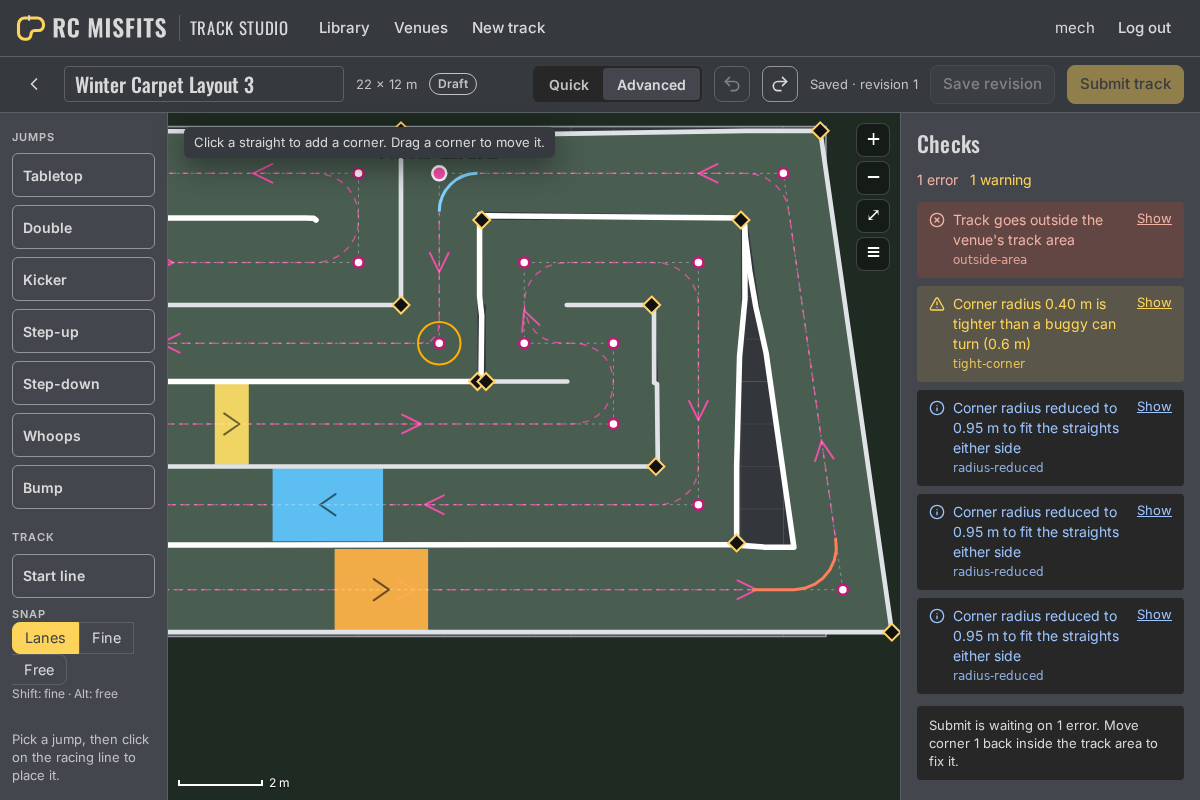
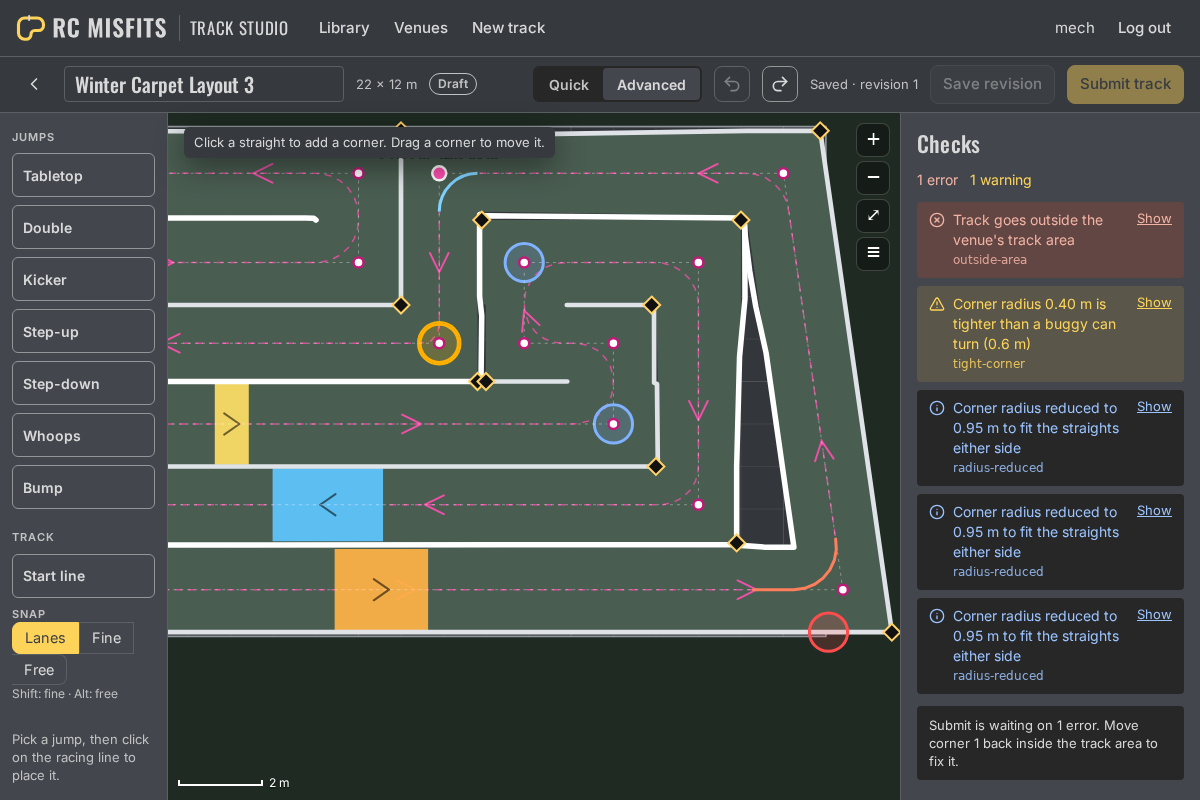
designer: review fixes: Advanced keeps PlanView check dots and tips, no nested main, copy link only for saved work, Submit hidden until first save, keys off on phones; stronger mode tests (#11)

diff --git a/apps/web/src/designer/Designer.tsx b/apps/web/src/designer/Designer.tsx
@@ -29,7 +29,7 @@ import { featureCorners, laneRuns, pts } from "../lib/plan.js";
 import { useSession } from "../lib/session.js";
 import { insertionFor, liveGeometry, nearestOnLine, placeFeature, roundTo, tooClose, wheelRadius, wrapDistance, type Guide, type Live } from "./geometry.js";
 import { useHistory } from "./history.js";
-import { allows, checkCounts, deletePoint, insertPoint, MODE_KEY, movePoint, problemMarks, readMode, snapModeFor, submitBlock, visibleChecks, type DesignerMode } from "./mode.js";
+import { allows, checkCounts, wheelEdit, deletePoint, insertPoint, MODE_KEY, movePoint, problemMarks, readMode, snapModeFor, submitBlock, visibleChecks, type DesignerMode } from "./mode.js";
 import { hasMitre, keepPinned, tidy, makeHairpin, mitrePoint, pinnedCorners, placeByMitre, SHARP_TURN, snapCentre, snapInsertion, snapMitre, turnDegrees, type SnapMode, type SnapResult, type SnapTag } from "./snap.js";
 import { useBake } from "./useBake.js";
 
@@ -156,6 +156,8 @@ export function Designer({ mode, initial, base: initialBase, fromVenue, storageK
   const viewRef = useRef(view);
   viewRef.current = view;
   const phone = useMediaQuery(PHONE_QUERY);
+  const phoneRef = useRef(phone);
+  phoneRef.current = phone;
   const [shared, setShared] = useState<Guide | null>(null);
   const [dragging, setDragging] = useState<number | null>(null);
   const [hoverPt, setHoverPt] = useState<number | null>(null);
@@ -275,10 +277,10 @@ export function Designer({ mode, initial, base: initialBase, fromVenue, storageK
       if (mod && e.key.toLowerCase() === "s") {
         // save works from anywhere, also while typing in a field
         e.preventDefault();
-        setSaveOpen(true);
+        if (!phoneRef.current) setSaveOpen(true);
         return;
       }
-      if (isTyping(e.target)) return; // inputs keep their own undo, delete, etc.
+      if (isTyping(e.target) || phoneRef.current) return; // inputs keep their own undo, delete, etc.; phones only view
       if (mod && e.key.toLowerCase() === "z") {
         e.preventDefault();
         if (e.shiftKey) hist.redo();
@@ -472,8 +474,8 @@ export function Designer({ mode, initial, base: initialBase, fromVenue, storageK
       const i = Number(el.getAttribute("data-index"));
       const pts = draftRef.current.design.points;
       if (!(i >= 0 && i < pts.length)) return false;
-      const what = e.ctrlKey || e.metaKey ? "width" : "radius";
-      if (!allows(viewRef.current, what)) return false; // Quick: the wheel zooms the plan as anywhere else
+      const what = wheelEdit(viewRef.current, e);
+      if (!what) return false; // Quick: the wheel zooms the plan as anywhere else
       const key = `${what}:${i}`;
       const acc = wheelAcc.current;
       if (acc.key !== key) Object.assign(acc, { key, px: 0 });
@@ -661,7 +663,7 @@ export function Designer({ mode, initial, base: initialBase, fromVenue, storageK
 
   // ------------------------------------------------------------------------------------ layout
   const status = base?.track;
-  const showSubmit = !!me && (mode === "new" || !!base?.can.submit);
+  const showSubmit = !!me && mode === "edit" && !!base?.can.submit;
   const blocked = submitBlock({ dirty, pending: bake.pending, checks: built.checks, points: pointsList });
   const venueName = fromVenue?.name ?? (draft.basedOn ? status?.venue?.name ?? draft.basedOn.venueTemplate : undefined);
   const backTo = mode === "edit" && base ? { to: `/t/${base.id}`, label: "Back to track" } : { to: "/new", label: "Start over" };
@@ -679,8 +681,10 @@ export function Designer({ mode, initial, base: initialBase, fromVenue, storageK
     });
     setSel(best);
   };
-  // PlanView draws no checks here: the designer draws them itself (see `marks`)
-  const planBuilt = useMemo(() => ({ ...built, checks: [] }), [built]);
+  // In Quick, PlanView draws no checks (no info dots): the designer's own marks show errors and warnings. Advanced keeps
+  // PlanView's check dots and their hover details as well.
+  const quickBuilt = useMemo(() => ({ ...built, checks: [] }), [built]);
+  const planBuilt = advanced ? built : quickBuilt;
 
   if (phone) {
     return (
@@ -691,12 +695,16 @@ export function Designer({ mode, initial, base: initialBase, fromVenue, storageK
           </Link>
           <p className="designer-name">{draft.info.name || "Untitled track"}</p>
         </div>
-        <main className="phone-body">
+        <div className="phone-body">
           <div className="empty">
             <Monitor size={36} className="empty-icon" aria-hidden="true" />
             <h1>Design on a laptop or tablet</h1>
             <p>The designer needs a bigger screen. You can look at the plan here, and pick up where you left off on a laptop or tablet.</p>
-            <CopyButton text={window.location.href} label="Copy link to this design" className="btn btn-touch" />
+            {mode === "edit" && !dirty ? (
+              <CopyButton text={window.location.href} label="Copy link to this design" className="btn btn-touch" />
+            ) : (
+              <p>Changes you haven't saved stay in this browser until you save them.</p>
+            )}
           </div>
           <PlanView area={draft.area} obstacles={draft.obstacles} built={built} interactive={false} label={`Plan of ${draft.info.name || "this track"}, view only`} className="phone-plan" />
           <dl className="figures">
@@ -713,7 +721,7 @@ export function Designer({ mode, initial, base: initialBase, fromVenue, storageK
               <dt>Status</dt>
             </div>
           </dl>
-        </main>
+        </div>
       </div>
     );
   }
@@ -914,7 +922,7 @@ export function Designer({ mode, initial, base: initialBase, fromVenue, storageK
         </section>
 
         <aside className="designer-side" aria-label="Checks">
-          <ChecksPanel checks={built.checks} view={view} pending={bake.pending} blocked={showSubmit ? blocked : null} onShow={showCheck} />
+          <ChecksPanel checks={built.checks} view={view} pending={bake.pending} blocked={showSubmit ? blocked : null} ready={showSubmit && !blocked} onShow={showCheck} />
           <SelectionPanel sel={sel} view={view} draft={draft} live={live} update={update} onDelete={deleteSelection} fromVenue={venueName} />
           {advanced && <Shortcuts />}
           <Stats built={built} live={live} view={view} />
@@ -982,7 +990,21 @@ function Stats({ built, live, view }: { built: Built; live: Live; view: Designer
 const CHECK_ICON = { error: CircleX, warning: TriangleAlert, info: Info } as const;
 const plural = (n: number, one: string) => `${n} ${one}${n === 1 ? "" : "s"}`;
 
-function ChecksPanel({ checks, view, pending, blocked, onShow }: { checks: Check[]; view: DesignerMode; pending: boolean; blocked: string | null; onShow: (x: number, z: number) => void }) {
+function ChecksPanel({
+  checks,
+  view,
+  pending,
+  blocked,
+  ready,
+  onShow,
+}: {
+  checks: Check[];
+  view: DesignerMode;
+  pending: boolean;
+  blocked: string | null;
+  ready: boolean;
+  onShow: (x: number, z: number) => void;
+}) {
   const shown = visibleChecks(checks, view);
   const { errors, warnings } = checkCounts(checks);
   return (
@@ -994,7 +1016,7 @@ function ChecksPanel({ checks, view, pending, blocked, onShow }: { checks: Check
         <ul className="checks">
           <li className="check check-ok">
             <CircleCheck size={16} aria-hidden="true" />
-            <span>No problems. Ready to submit.</span>
+            <span>{pending ? "Checking…" : ready ? "No problems. Ready to submit." : "No problems found."}</span>
           </li>
         </ul>
       ) : (

diff --git a/apps/web/test/mode.test.ts b/apps/web/test/mode.test.ts
@@ -3,8 +3,8 @@ import { readFileSync } from "node:fs";
 import { join } from "node:path";
 import { describe, expect, it } from "vitest";
 import { draftFromDoc, toDoc } from "../src/designer/Designer.js";
-import { allows, checkCounts, deletePoint, insertPoint, movePoint, problemMarks, readMode, snapModeFor, submitBlock, visibleChecks } from "../src/designer/mode.js";
-import { snapCentre } from "../src/designer/snap.js";
+import { allows, checkCounts, deletePoint, insertPoint, movePoint, problemMarks, readMode, snapModeFor, submitBlock, visibleChecks, wheelEdit } from "../src/designer/mode.js";
+import { keepPinned, pinnedCorners, snapCentre } from "../src/designer/snap.js";
 
 const ref = <T,>(p: string) => JSON.parse(readFileSync(join(__dirname, "../../../reference", p), "utf8")) as T;
 
@@ -25,11 +25,6 @@ describe("the mode preference", () => {
     expect(readMode(JSON.stringify({ mode: "advanced" }))).toBe("advanced");
     expect(readMode(JSON.stringify({ mode: "quick" }))).toBe("quick");
   });
-
-  it("doesn't look at the track: custom radius, width and outer still open in the remembered mode", () => {
-    // readMode takes only the stored preference; nothing about the track can switch the mode
-    expect(readMode.length).toBe(1);
-  });
 });
 
 describe("what Quick mode allows", () => {
@@ -38,6 +33,14 @@ describe("what Quick mode allows", () => {
       expect(allows("quick", a)).toBe(false);
       expect(allows("advanced", a)).toBe(true);
     }
+  });
+
+  it("the wheel over a corner changes nothing in Quick (the plan zooms instead)", () => {
+    expect(wheelEdit("quick", { ctrlKey: false, metaKey: false })).toBeNull();
+    expect(wheelEdit("quick", { ctrlKey: true, metaKey: false })).toBeNull();
+    expect(wheelEdit("advanced", { ctrlKey: false, metaKey: false })).toBe("radius");
+    expect(wheelEdit("advanced", { ctrlKey: true, metaKey: false })).toBe("width");
+    expect(wheelEdit("advanced", { ctrlKey: false, metaKey: true })).toBe("width");
   });
 
   it("snaps to lanes only, whatever the keys or the toolbar say", () => {
@@ -74,11 +77,28 @@ describe("Quick mode edits keep custom values", () => {
   it("a Quick session round-trips the custom values unchanged", () => {
     const t = customTrack();
     const draft = draftFromDoc(t);
+    const lw = draft.design.laneWidth ?? 2;
     let points = insertPoint("quick", draft.design.points, 0, [(draft.design.points[0].x + draft.design.points[1].x) / 2, (draft.design.points[0].z + draft.design.points[1].z) / 2]);
     points = movePoint(points, 1, [points[1].x + 0.25, points[1].z]);
     points = deletePoint(points, 1); // the new corner goes again
+    // move custom corners away and back, the way a drag does (pinned hall corners follow, then return)
+    for (const i of [0, 5, 11]) {
+      const origin = points;
+      const pinned = pinnedCorners(origin, draft.area, lw, i);
+      const { p } = snapCentre([origin[i].x - 0.5, origin[i].z + 0.5], { area: draft.area, points: origin, laneWidth: lw, i, mode: "lanes" });
+      let moved = movePoint(origin, i, p);
+      if (pinned.size) moved = keepPinned(moved, pinned, lw, origin);
+      moved = movePoint(moved, i, [origin[i].x, origin[i].z]);
+      if (pinned.size) moved = keepPinned(moved, pinned, lw, origin);
+      expect(moved.map(custom)).toEqual(origin.map(custom));
+      points = moved;
+    }
     const doc = toDoc({ ...draft, design: { ...draft.design, points } }, { id: t.id, revision: t.revision, doc: t });
-    expect(doc.design.points).toEqual(t.design.points);
+    expect(doc.design.points.map(custom)).toEqual(t.design.points.map(custom));
+    doc.design.points.forEach((q, k) => {
+      expect(q.x).toBeCloseTo(t.design.points[k].x, 6);
+      expect(q.z).toBeCloseTo(t.design.points[k].z, 6);
+    });
     expect(doc.design.laneWidth).toBe(t.design.laneWidth);
   });
 });

diff --git a/apps/web/src/designer/mode.ts b/apps/web/src/designer/mode.ts
@@ -33,6 +33,12 @@ export type AdvancedControl =
 
 export const allows = (mode: DesignerMode, _control: AdvancedControl): boolean => mode === "advanced";
 
+/** What the wheel over a corner changes: radius, or lane width with Ctrl/⌘; nothing in Quick (the plan zooms instead). */
+export function wheelEdit(mode: DesignerMode, ev: { ctrlKey: boolean; metaKey: boolean }): "radius" | "width" | null {
+  const what = ev.ctrlKey || ev.metaKey ? "width" : "radius";
+  return allows(mode, what) ? what : null;
+}
+
 /** Shift = fine, Alt = free, otherwise the toolbar's mode; Quick snaps to lanes only. */
 export function snapModeFor(mode: DesignerMode, ev: { shiftKey: boolean; altKey: boolean }, toolbar: SnapMode): SnapMode {
   if (mode === "quick") return "lanes";
